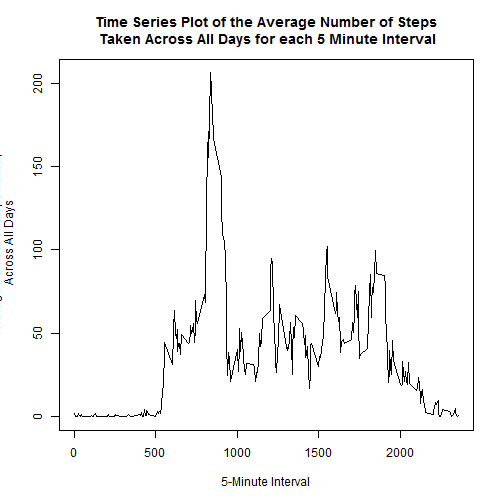
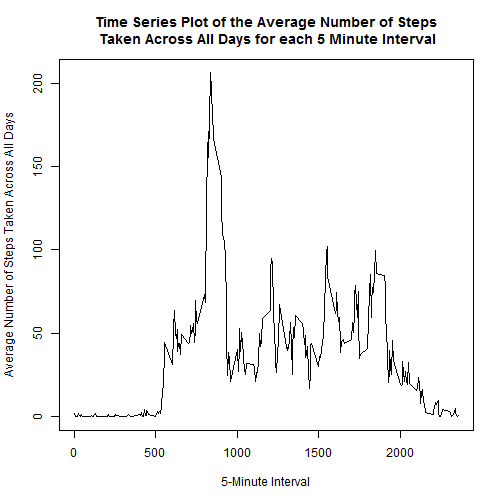
Second commit.
Updated time series plot y-lab.
Added further comments.

Changed region(s): [[0.0, 0.2083, 0.0298, 0.744]]

diff --git a/PA1_template.html b/PA1_template.html
@@ -339,11 +339,11 @@ plot(
         type = &quot;l&quot;,
         main = &quot;Time Series Plot of the Average Number of Steps\n Taken Across All Days for each 5 Minute Interval&quot;,
         xlab = &quot;5-Minute Interval&quot;,
-        ylab = &quot;Average Number of Steps Taken,\n Across All Days&quot;
+        ylab = &quot;Average Number of Steps Taken Across All Days&quot;
 )
 </code></pre>
 
[2 lines of base64/hex data omitted]
 
 <h3>2. Which 5-minute interval, on average across all the days in the dataset, contains the maximum number of steps?</h3>
 
@@ -353,6 +353,8 @@ plot(
 <pre><code>##     interval mean_steps
 ## 104      835   206.1698
 </code></pre>
+
+<p>From the above, the interval 0835 is the time when the maximum number of steps is taken (averaged across all days).</p>
 
 <h2>Imputing missing values</h2>
 

diff --git a/PA1_template.md b/PA1_template.md
@@ -146,7 +146,7 @@ plot(
         type = "l",
         main = "Time Series Plot of the Average Number of Steps\n Taken Across All Days for each 5 Minute Interval",
         xlab = "5-Minute Interval",
-        ylab = "Average Number of Steps Taken,\n Across All Days"
+        ylab = "Average Number of Steps Taken Across All Days"
 )
 ```
 
@@ -162,6 +162,7 @@ dfInterval[dfInterval$mean_steps==max(dfInterval$mean_steps),]
 ##     interval mean_steps
 ## 104      835   206.1698
 ```
+From the above, the interval 0835 is the time when the maximum number of steps is taken (averaged across all days).
 
 ## Imputing missing values
 
